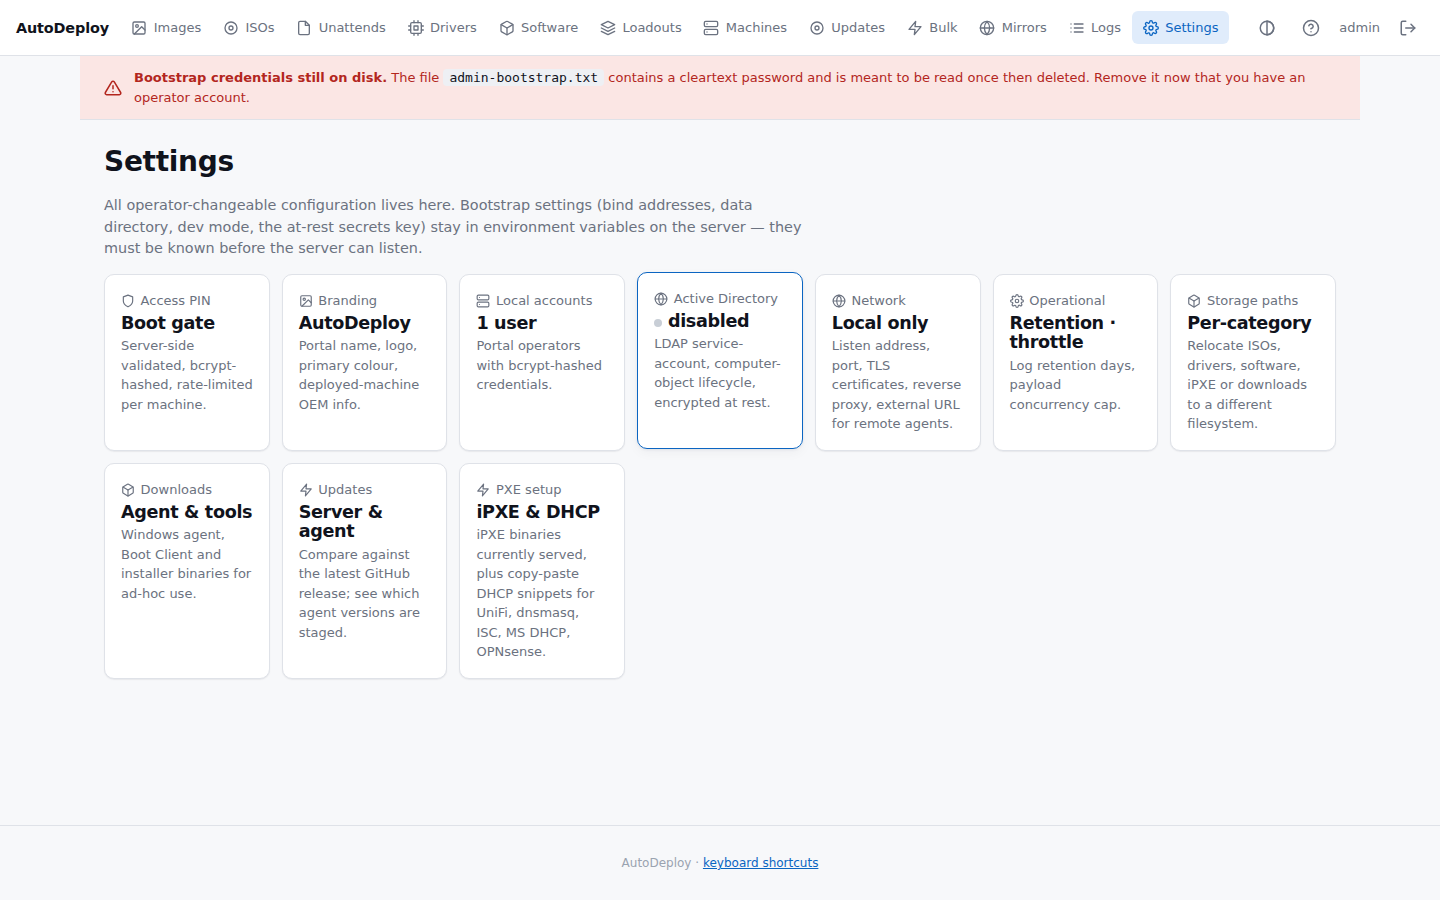
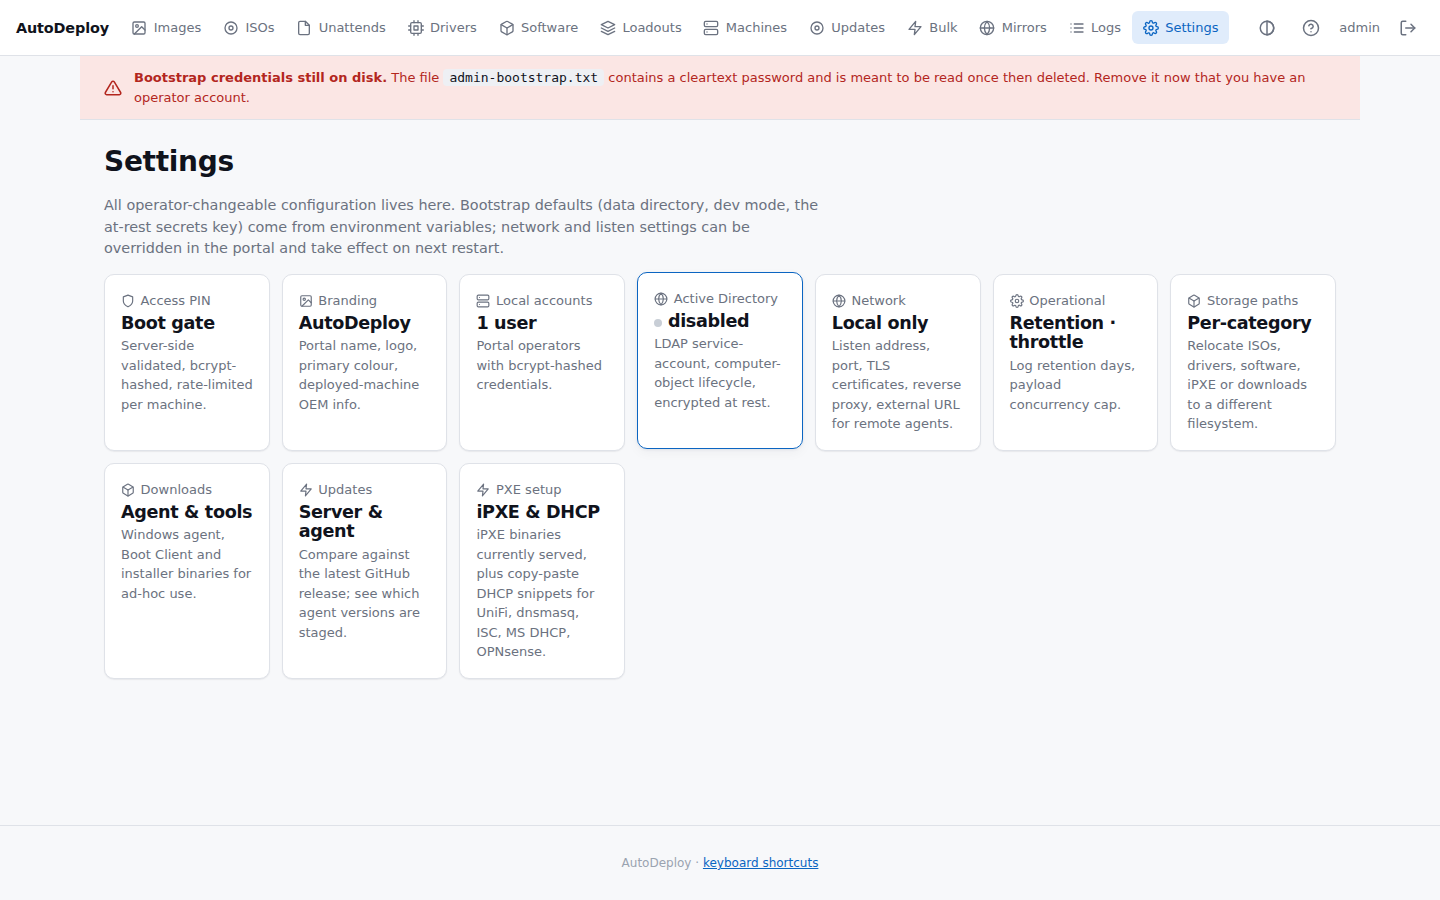
feat: agent-only external access mode for reverse proxy
Adds an "External access" setting to the Network settings page. When
set to "Agent only", requests arriving through a trusted proxy are
restricted to agent endpoints (/api/v1/agent/*, /payload/*, /healthz).
The portal, login page, and admin API return 403 for proxied traffic,
so the admin interface stays internal-only while remote agents can
still deploy software. Takes effect immediately without restart.

https://claude.ai/code/session_016YSLAbrgLUtaiFLiPTmZrw

Changed region(s): [[0.0625, 0.2178, 0.5625, 0.28]]

diff --git a/server/internal/portal/templates/settings_network.html b/server/internal/portal/templates/settings_network.html
@@ -45,6 +45,18 @@
         Leave empty to trust no proxies (direct connections only).
       </span>
     </label>
+    <label><span class="lbl">External access</span>
+      <select name="external_access">
+        <option value="full" {{if ne .Data.Cfg.ExternalAccess "agent"}}selected{{end}}>Full access — portal and agents</option>
+        <option value="agent" {{if eq .Data.Cfg.ExternalAccess "agent"}}selected{{end}}>Agent only — block portal for proxied requests</option>
+      </select>
+      <span class="hint">
+        When set to <strong>Agent only</strong>, requests arriving through a trusted proxy can only reach agent endpoints
+        (<code>/api/v1/agent/*</code>, <code>/payload/*</code>, <code>/healthz</code>).
+        The portal and admin API are blocked for external traffic — operators must access them directly on the internal network.
+        Takes effect immediately.
+      </span>
+    </label>
   </fieldset>
 
   <fieldset><legend>TLS certificate</legend>

diff --git a/server/internal/httpx/proxy.go b/server/internal/httpx/proxy.go
@@ -38,18 +38,26 @@ func TrustedProxyMiddleware(cidrs string, next http.Handler) http.Handler {
 	})
 }
 
-// DynamicTrustedProxyMiddleware is like TrustedProxyMiddleware but
-// re-reads the CIDR list on every request via the provided function.
-// This lets the operator change trusted proxies at runtime without a
-// restart.
-func DynamicTrustedProxyMiddleware(cidrsFn func() string, next http.Handler) http.Handler {
+// ProxyConfig holds the dynamic functions that control reverse proxy
+// behaviour. Both are re-read on every request so operators can change
+// them at runtime without a restart.
+type ProxyConfig struct {
+	CIDRsFn        func() string // trusted proxy CIDRs
+	ExternalAccess func() string // "agent" restricts proxied traffic to agent endpoints
+}
+
+// DynamicTrustedProxyMiddleware rewrites RemoteAddr from X-Forwarded-For
+// when the direct client IP is in the trusted CIDRs. When ExternalAccess
+// returns "agent", requests arriving through a trusted proxy are
+// restricted to agent-only paths (/api/v1/agent/*, /payload/*, /healthz).
+func DynamicTrustedProxyMiddleware(pc ProxyConfig, next http.Handler) http.Handler {
 	var (
 		mu       sync.RWMutex
 		lastCIDR string
 		cached   []*net.IPNet
 	)
 	return http.HandlerFunc(func(w http.ResponseWriter, r *http.Request) {
-		current := cidrsFn()
+		current := pc.CIDRsFn()
 		mu.RLock()
 		nets := cached
 		same := current == lastCIDR
@@ -61,7 +69,8 @@ func DynamicTrustedProxyMiddleware(cidrsFn func() string, next http.Handler) htt
 			lastCIDR = current
 			mu.Unlock()
 		}
-		if len(nets) > 0 && isTrusted(r.RemoteAddr, nets) {
+		proxied := len(nets) > 0 && isTrusted(r.RemoteAddr, nets)
+		if proxied {
 			if xff := r.Header.Get("X-Forwarded-For"); xff != "" {
 				parts := strings.Split(xff, ",")
 				clientIP := strings.TrimSpace(parts[0])
@@ -76,9 +85,24 @@ func DynamicTrustedProxyMiddleware(cidrsFn func() string, next http.Handler) htt
 			if proto := r.Header.Get("X-Forwarded-Proto"); proto != "" {
 				r.URL.Scheme = strings.ToLower(proto)
 			}
+
+			if pc.ExternalAccess != nil && pc.ExternalAccess() == "agent" {
+				if !isAgentPath(r.URL.Path) {
+					http.Error(w, "Forbidden — this endpoint is not available externally", http.StatusForbidden)
+					return
+				}
+			}
 		}
 		next.ServeHTTP(w, r)
 	})
+}
+
+// isAgentPath returns true for paths that agents need: the agent API,
+// payload downloads, and the health check.
+func isAgentPath(path string) bool {
+	return strings.HasPrefix(path, "/api/v1/agent/") ||
+		strings.HasPrefix(path, "/payload/") ||
+		path == "/healthz"
 }
 
 func parseCIDRs(s string) []*net.IPNet {

diff --git a/server/internal/runtime/settings.go b/server/internal/runtime/settings.go
@@ -42,12 +42,13 @@ const (
 	keyStorageIPXE        = "storage.ipxe"
 	keyStorageDownloads   = "storage.downloads"
 
-	keyNetHTTPAddr       = "net.http_addr"
-	keyNetHTTPSAddr      = "net.https_addr"
-	keyNetExternalURL    = "net.external_url"
-	keyNetTrustedProxies = "net.trusted_proxies"
-	keyNetTLSCertPath    = "net.tls_cert_path"
-	keyNetTLSKeyPath     = "net.tls_key_path"
+	keyNetHTTPAddr        = "net.http_addr"
+	keyNetHTTPSAddr       = "net.https_addr"
+	keyNetExternalURL     = "net.external_url"
+	keyNetTrustedProxies  = "net.trusted_proxies"
+	keyNetExternalAccess  = "net.external_access"
+	keyNetTLSCertPath     = "net.tls_cert_path"
+	keyNetTLSKeyPath      = "net.tls_key_path"
 )
 
 // StorageCategories is the closed set of relocatable category prefixes
@@ -445,6 +446,7 @@ type NetworkConfig struct {
 	HTTPSAddr      string // e.g. "0.0.0.0:8443"
 	ExternalURL    string // e.g. "https://deploy.example.com"
 	TrustedProxies string // comma-separated CIDRs
+	ExternalAccess string // "full" or "agent" — controls what proxied requests can reach
 	TLSCertPath    string // absolute path to PEM cert
 	TLSKeyPath     string // absolute path to PEM key
 }
@@ -455,6 +457,7 @@ func (s *Settings) NetworkConfig() NetworkConfig {
 		HTTPSAddr:      s.get(keyNetHTTPSAddr),
 		ExternalURL:    s.get(keyNetExternalURL),
 		TrustedProxies: s.get(keyNetTrustedProxies),
+		ExternalAccess: s.get(keyNetExternalAccess),
 		TLSCertPath:    s.get(keyNetTLSCertPath),
 		TLSKeyPath:     s.get(keyNetTLSKeyPath),
 	}
@@ -472,6 +475,7 @@ func (s *Settings) SetNetworkConfig(ctx context.Context, cfg NetworkConfig) erro
 		{keyNetHTTPSAddr, cfg.HTTPSAddr},
 		{keyNetExternalURL, cfg.ExternalURL},
 		{keyNetTrustedProxies, cfg.TrustedProxies},
+		{keyNetExternalAccess, cfg.ExternalAccess},
 		{keyNetTLSCertPath, cfg.TLSCertPath},
 		{keyNetTLSKeyPath, cfg.TLSKeyPath},
 	} {
@@ -484,6 +488,11 @@ func (s *Settings) SetNetworkConfig(ctx context.Context, cfg NetworkConfig) erro
 	}
 	return s.refresh(ctx)
 }
+
+// ExternalAccess returns the current external access mode.
+// "agent" restricts proxied requests to agent endpoints only;
+// anything else (including empty/"full") means full access.
+func (s *Settings) ExternalAccess() string { return s.get(keyNetExternalAccess) }
 
 func (s *Settings) ExternalURL() string { return s.get(keyNetExternalURL) }
 

diff --git a/server/internal/portal/settings_network.go b/server/internal/portal/settings_network.go
@@ -53,11 +53,16 @@ func networkSubmit(r Repos) http.HandlerFunc {
 			http.Error(w, err.Error(), http.StatusBadRequest)
 			return
 		}
+		extAccess := strings.TrimSpace(req.FormValue("external_access"))
+		if extAccess != "agent" {
+			extAccess = "full"
+		}
 		cfg := runtime.NetworkConfig{
 			HTTPAddr:       strings.TrimSpace(req.FormValue("http_addr")),
 			HTTPSAddr:      strings.TrimSpace(req.FormValue("https_addr")),
 			ExternalURL:    strings.TrimSpace(req.FormValue("external_url")),
 			TrustedProxies: strings.TrimSpace(req.FormValue("trusted_proxies")),
+			ExternalAccess: extAccess,
 			TLSCertPath:    strings.TrimSpace(req.FormValue("tls_cert_path")),
 			TLSKeyPath:     strings.TrimSpace(req.FormValue("tls_key_path")),
 		}

diff --git a/server/cmd/autodeploy-server/main.go b/server/cmd/autodeploy-server/main.go
@@ -130,7 +130,10 @@ func run(ctx context.Context, logger *slog.Logger) error {
 
 	mtr := metrics.New()
 	mux, rawHandler := httpx.New(cfg, logger, mtr)
-	handler := httpx.DynamicTrustedProxyMiddleware(rt.TrustedProxies, rawHandler)
+	handler := httpx.DynamicTrustedProxyMiddleware(httpx.ProxyConfig{
+		CIDRsFn:        rt.TrustedProxies,
+		ExternalAccess: rt.ExternalAccess,
+	}, rawHandler)
 
 	// AD Domain Integration Service (Phase 10). Always-on; the
 	// EnabledFunc reads the portal's current AD URL setting so an

diff --git a/docs/portal/settings.md b/docs/portal/settings.md
@@ -108,12 +108,16 @@ Leave empty if all agents are on the same LAN as the server.
 
 ### Reverse proxy
 
-A comma-separated list of trusted proxy CIDRs (e.g. `10.0.0.0/8, 172.16.0.0/12`). When a request
-arrives from an IP in one of these ranges, the server trusts the `X-Forwarded-For` header for client
-IP detection and `X-Forwarded-Proto` for scheme detection.
+| Field | Notes |
+|-------|-------|
+| Trusted proxy CIDRs | Comma-separated list of IP ranges (e.g. `10.0.0.0/8, 172.16.0.0/12`) whose `X-Forwarded-For` and `X-Forwarded-Proto` headers are trusted for client IP detection. Leave empty to trust no proxies |
+| External access | **Full access** (default) allows all traffic through the proxy. **Agent only** restricts proxied requests to agent endpoints (`/api/v1/agent/*`, `/payload/*`, `/healthz`) — the portal and admin API are blocked for external traffic, so operators must access them on the internal network |
 
-This setting takes effect immediately — no restart needed. Leave empty to trust no proxies (direct
-connections only).
+Both settings take effect immediately — no restart needed.
+
+> **Agent only mode** is recommended for production deployments where agents connect remotely
+> through a public reverse proxy but the portal should remain internal. This prevents external
+> users from reaching the login page, admin API, or any operator-facing endpoint.
 
 ### TLS certificate
 

diff --git a/docs/operations/security.md b/docs/operations/security.md
@@ -47,6 +47,12 @@ If you front the server with a reverse proxy (nginx, Caddy, Traefik, etc.), conf
 client IP logging and `X-Forwarded-Proto` for secure-cookie detection. Only requests arriving
 from the specified CIDRs will have their forwarded headers trusted.
 
+For deployments where agents connect remotely but the portal should stay internal, set
+**External access** to **Agent only**. This blocks the portal, login page, and admin API for any
+request arriving through a trusted proxy — only agent endpoints (`/api/v1/agent/*`, `/payload/*`,
+`/healthz`) are reachable externally. Operators must access the portal directly on the internal
+network.
+
 The systemd unit grants only `CAP_NET_BIND_SERVICE` and runs the service as the unprivileged
 `autodeploy` user inside a hardened sandbox (`ProtectSystem=strict`, `ProtectHome=true`,
 `PrivateTmp=true`, with write access limited to the data directory).
